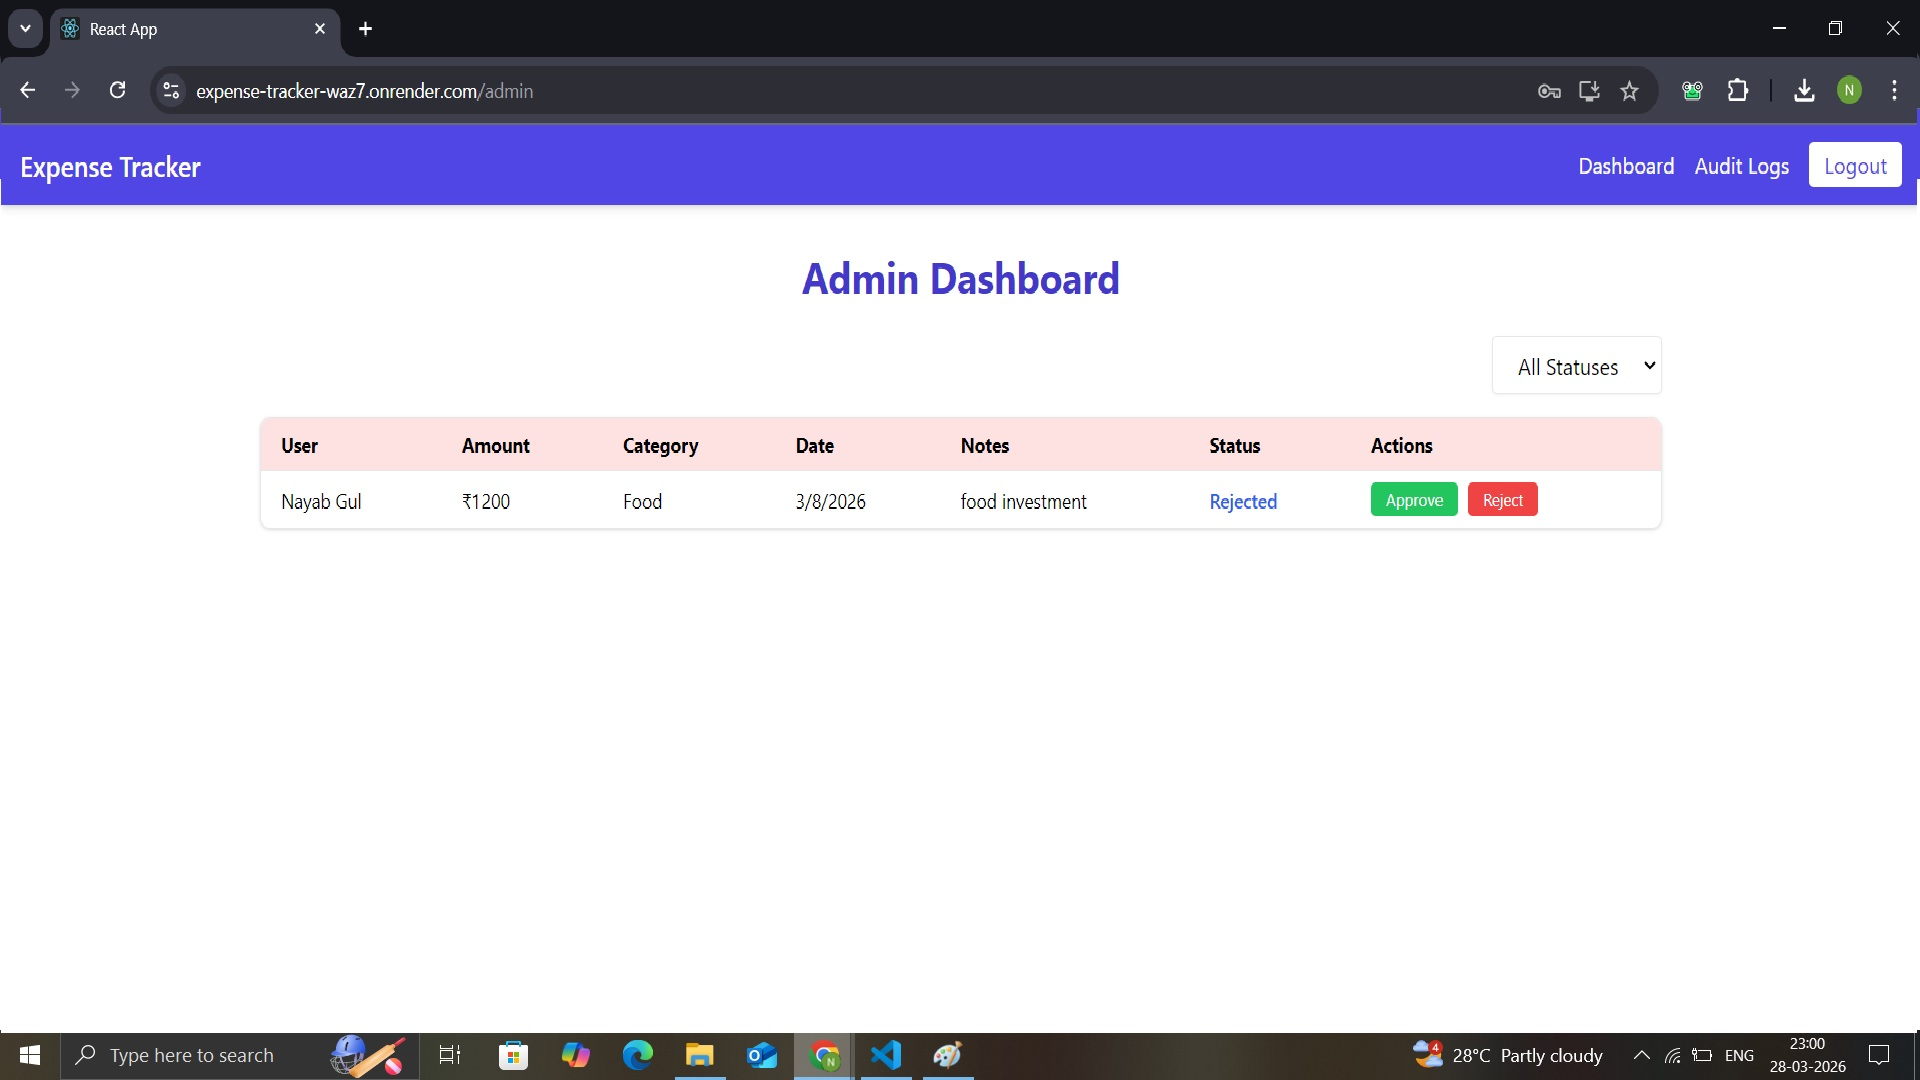
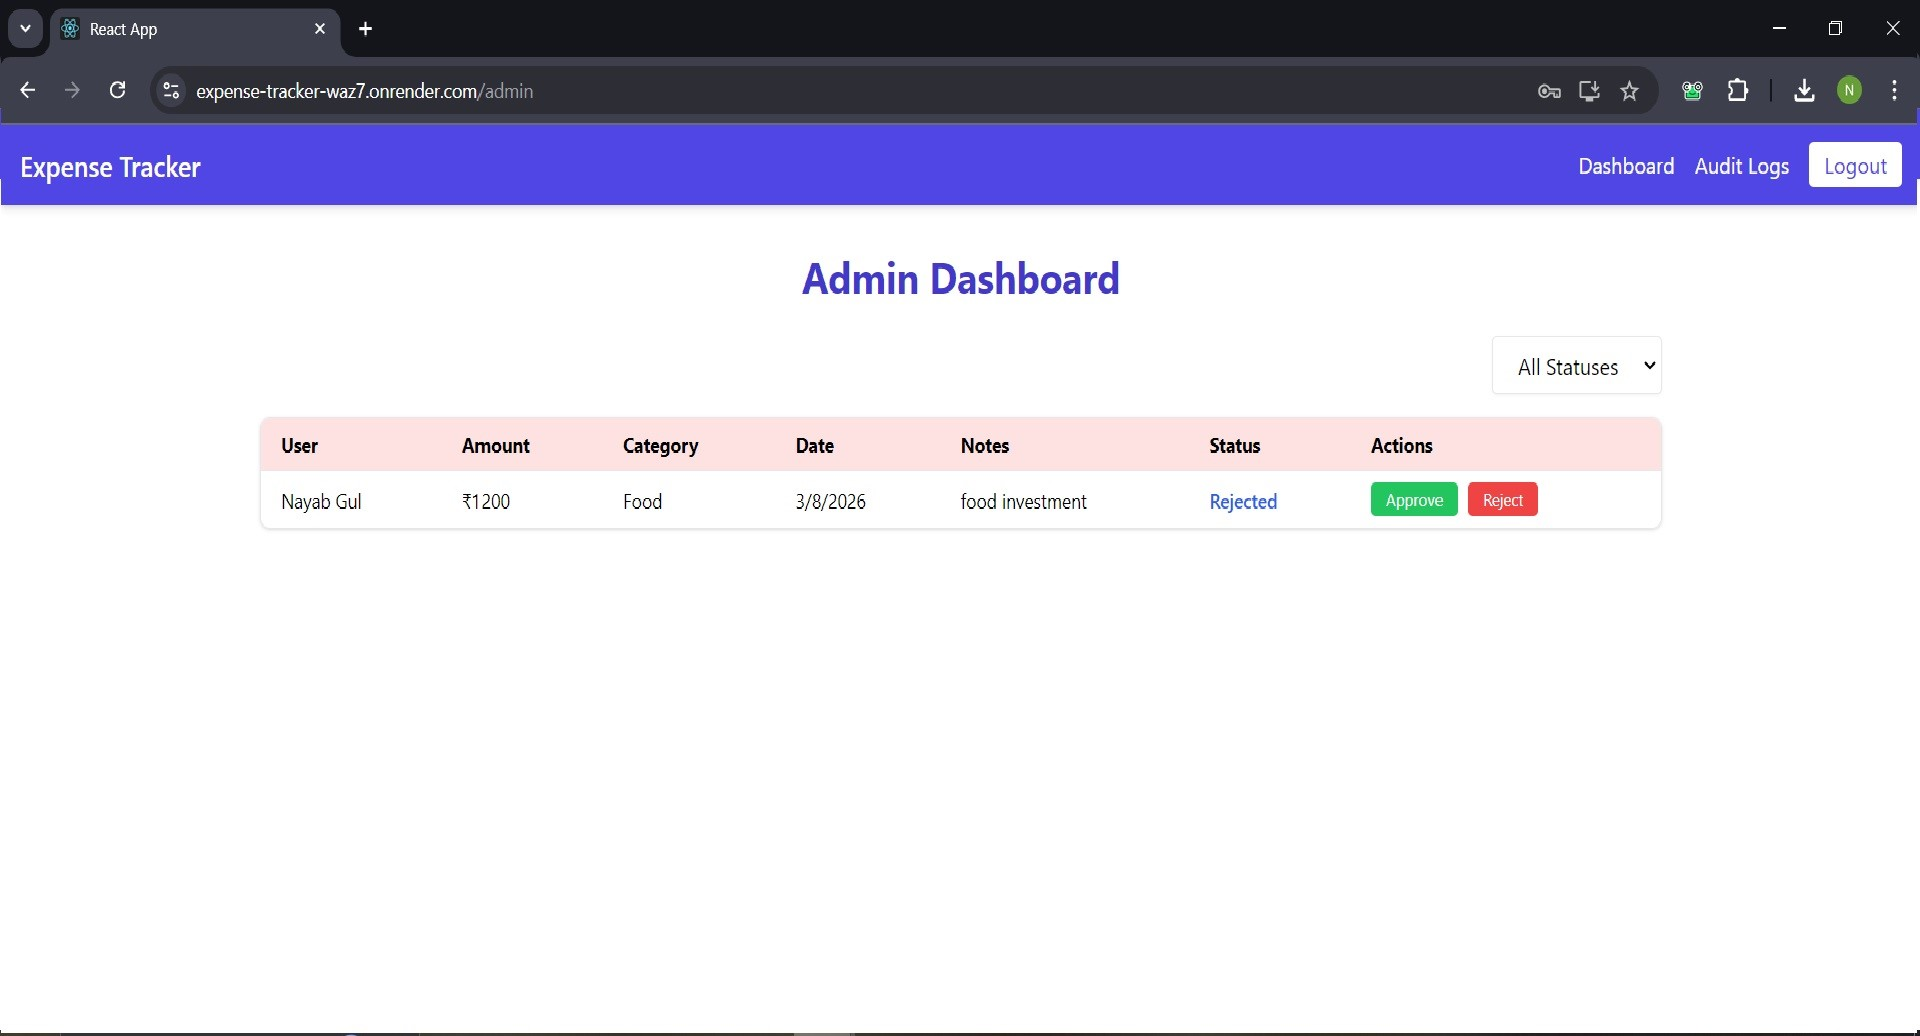
add new project

diff --git a/index.html b/index.html
@@ -503,12 +503,11 @@
 				</div>
 				<div class="col-md-4 d-flex ftco-animate">
 					<div class="blog-entry justify-content-end">
-						<a href="https://mini-linkedin-frontend-vjg9.onrender.com" class="block-20 zoom-effect"
+						<a href="https://expense-tracker-waz7.onrender.com" class="block-20 zoom-effect"
 							style="background-image: url('images/Expenses-tracker.jpg');">
 						</a>
 						<div class="text mt-3 float-right d-block">
-							<h3 class="heading"><a href="https://mini-linkedin-frontend-vjg9.onrender.com">Expenses
-									-Tracker</a></h3>
+							<h3 class="heading"><a href="https://expense-tracker-waz7.onrender.com">Expenses-Tracker</a></h3>
 							<p>Built an expense management app where users can securely log in and manage their expenses
 								based on their role (Employee or Admin). Employees can add and view their own expenses,
 								while admins can see all data and approve or reject requests. Also added simple charts
